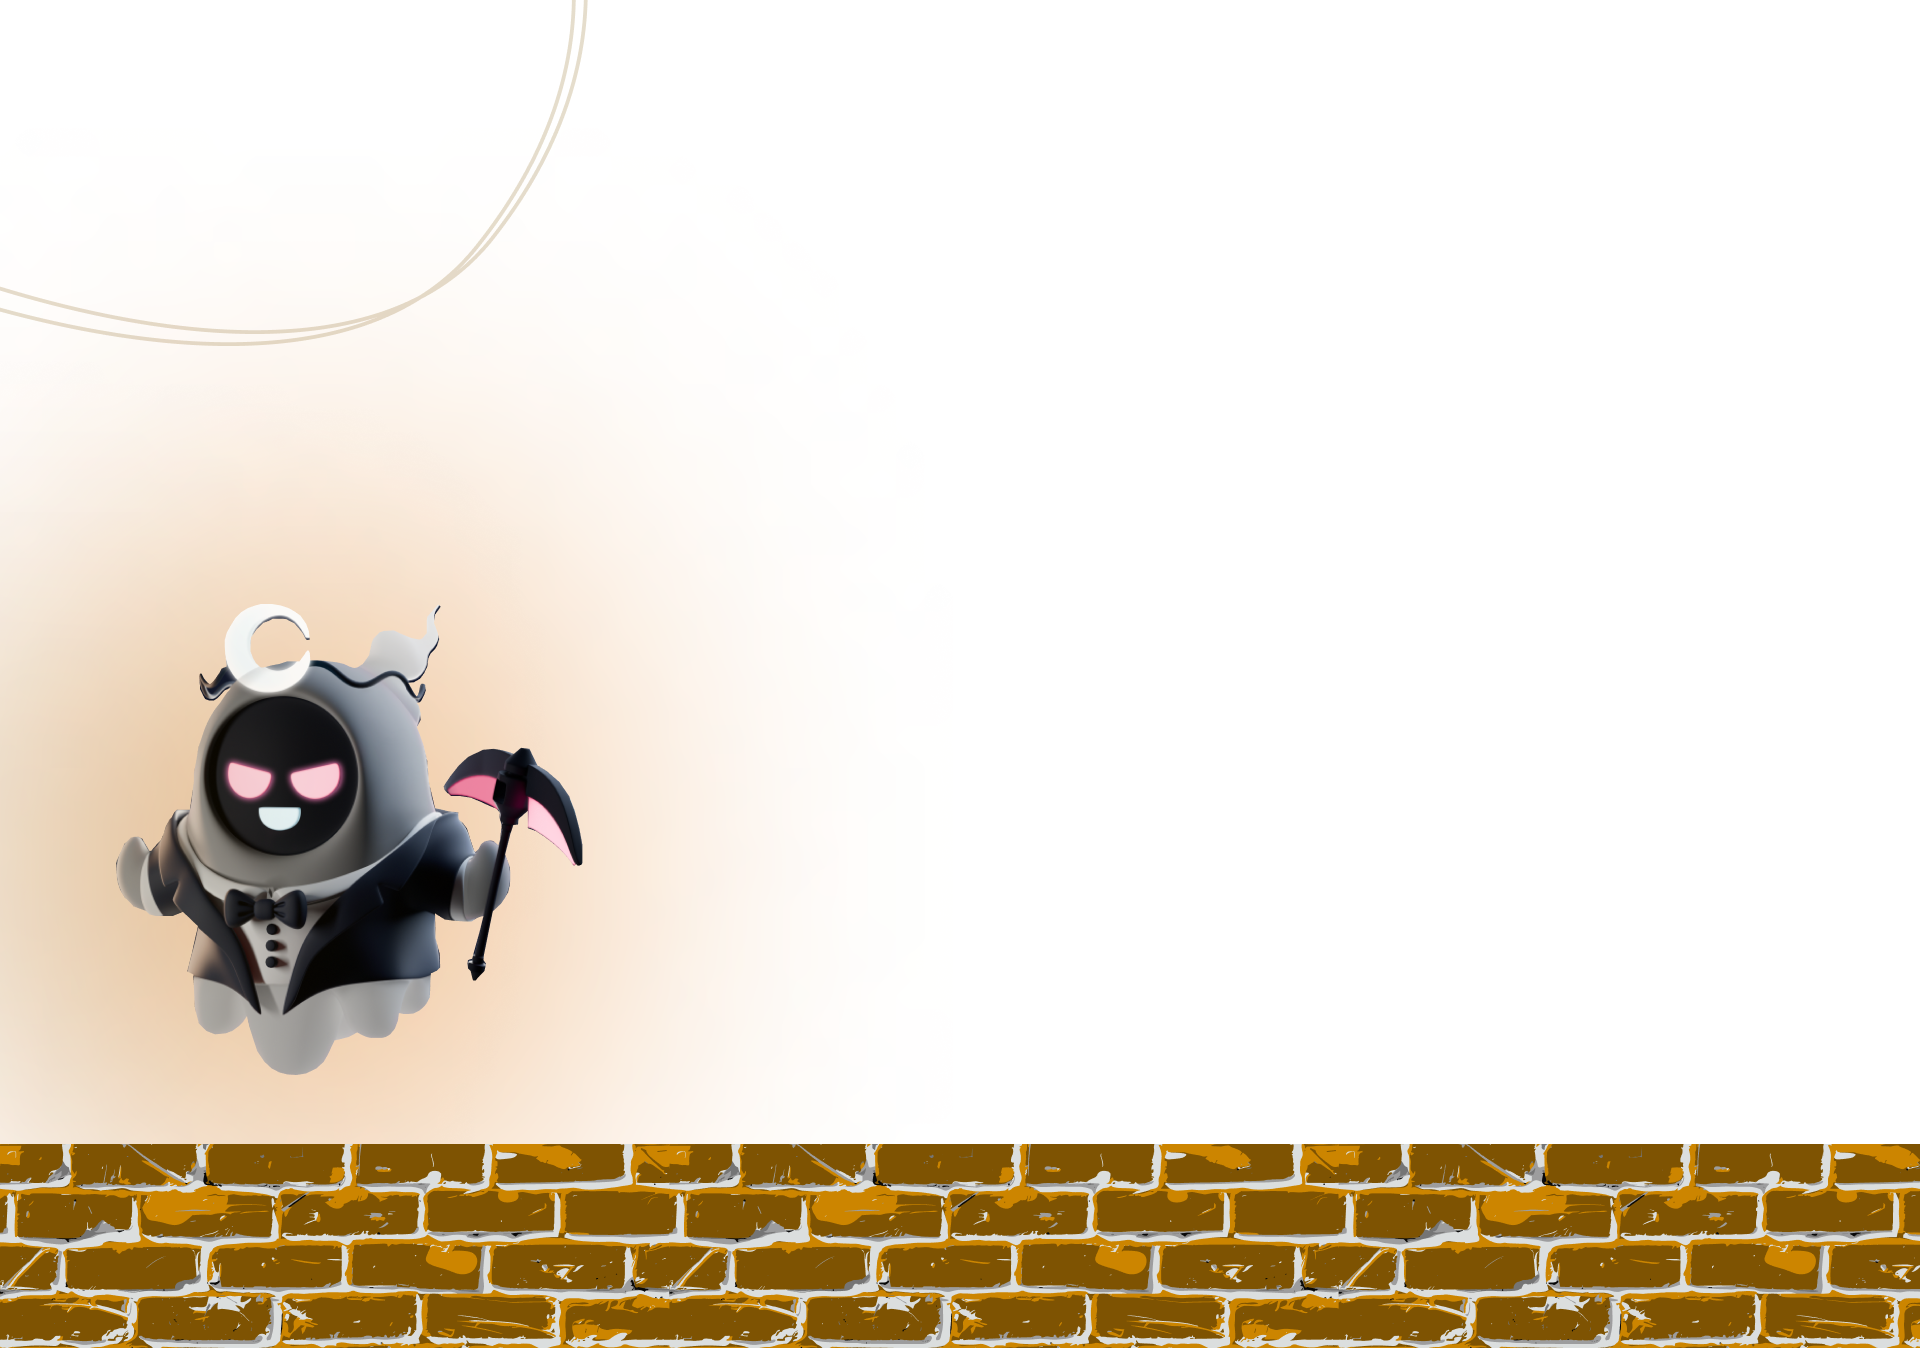
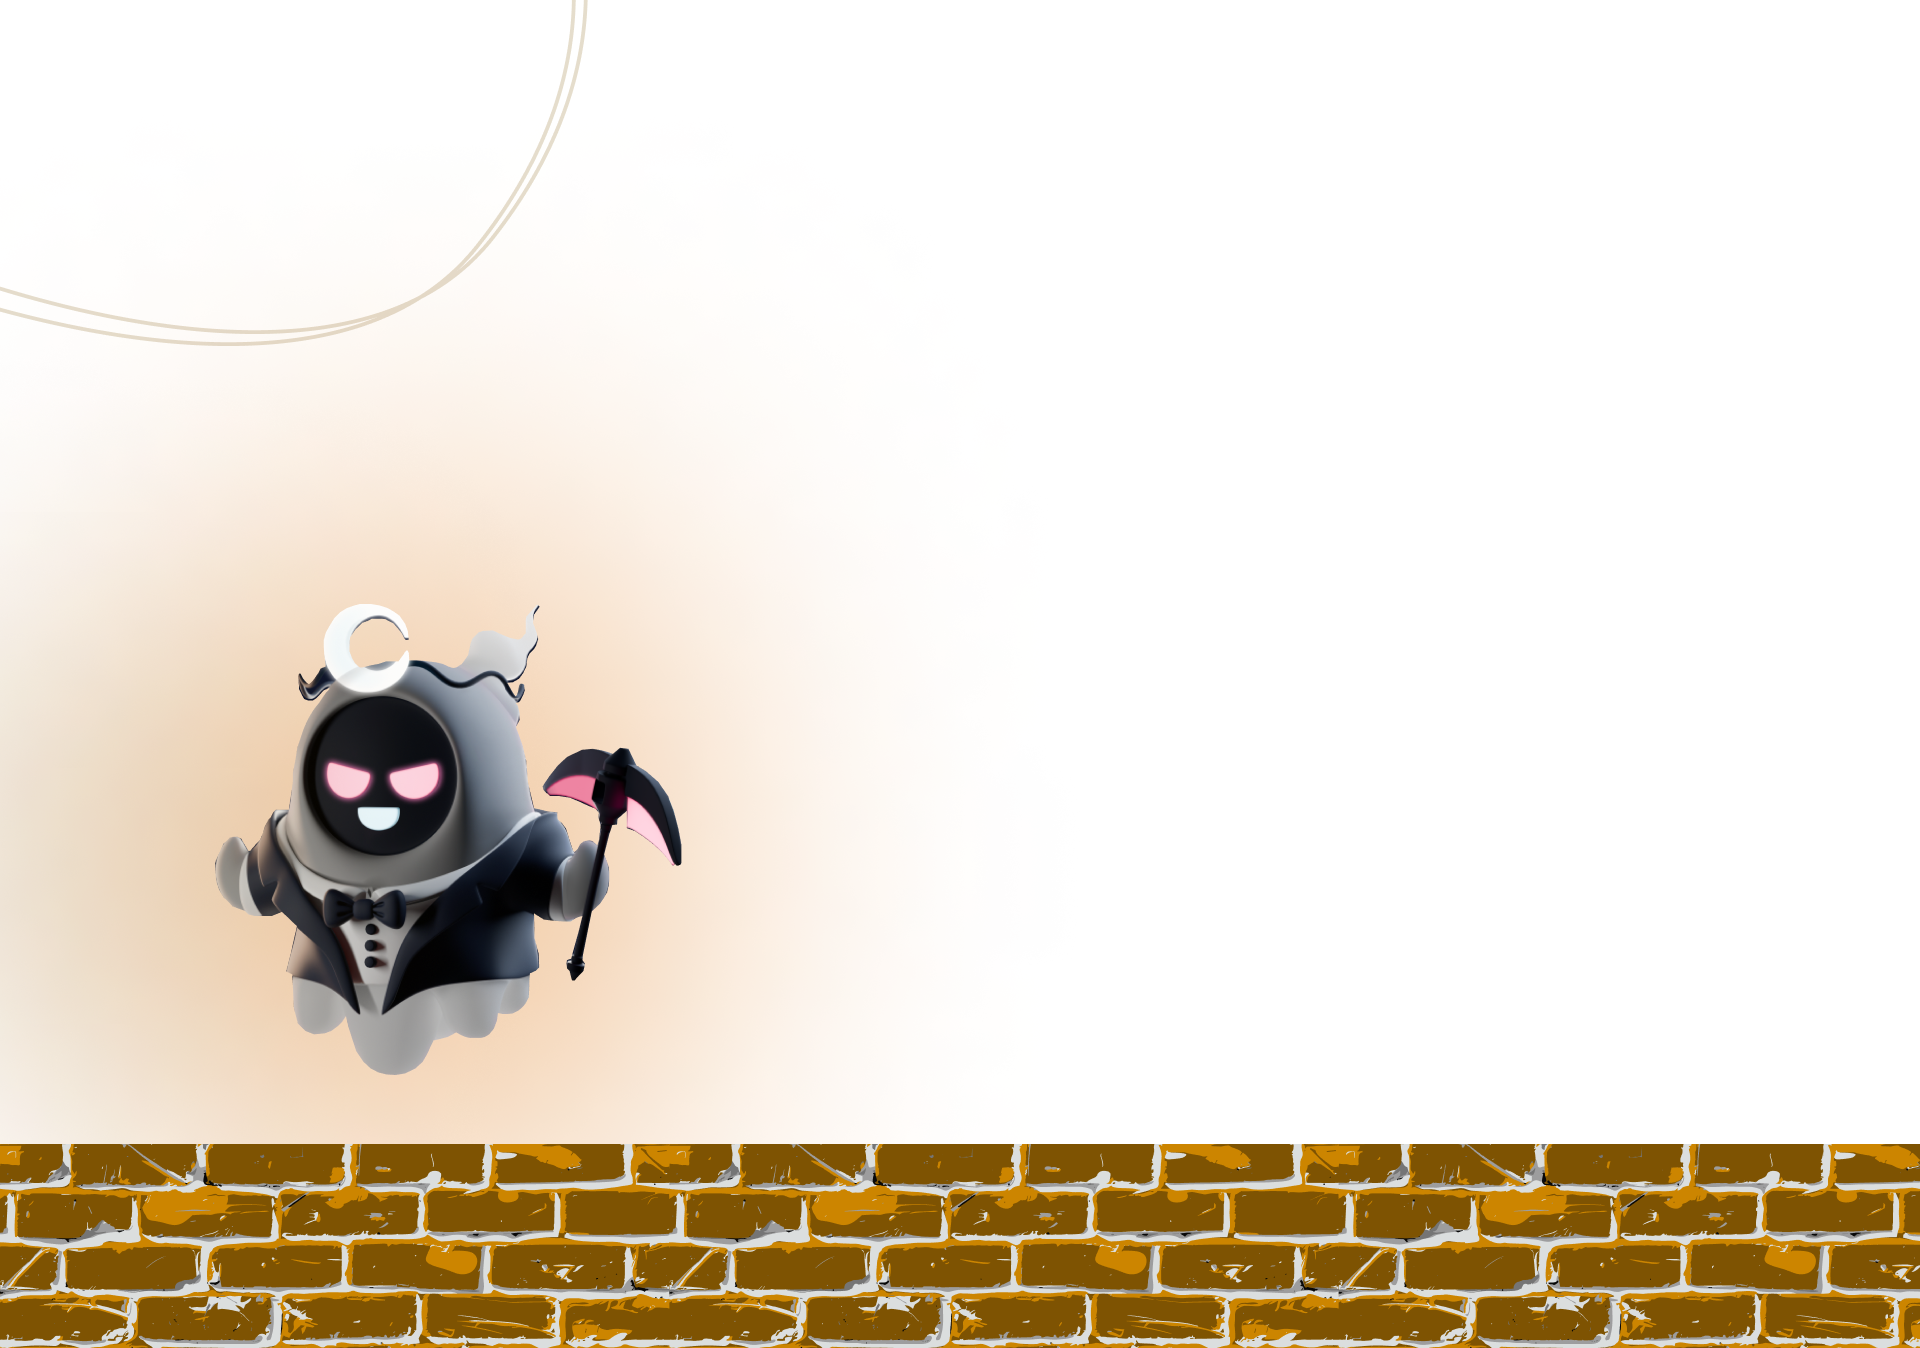
feat/client side changes

Changed region(s): [[0.0625, 0.4362, 0.375, 0.8101]]

diff --git a/components/sections/future_awaits.tsx b/components/sections/future_awaits.tsx
@@ -1,42 +1,51 @@
-import Button from "@/components/button/button";
-
+import Image from "next/image";
 const FutureAwaits = () => {
   return (
-    <div
-      id="section_7"
-      className="relative w-full min-h-screen flex flex-col items-center justify-center px-6 sm:px-10 md:px-16 lg:px-20 text-center"
-    >
-      {/* Content Box */}
-      <div className="max-w-3xl  p-6 sm:p-8 md:p-12">
-        <h1 className="text-3xl sm:text-4xl font-bold text-black mb-4">
-          The{" "}
-          <span className="text-black">
-            <span className="text-4xl sm:text-5xl">Future</span> Awaits
-          </span>
-        </h1>
-        <p className="text-black text-sm sm:text-lg md:text-xl leading-relaxed">
-          The Abstract Beings are no longer confined to their realm. They walk
-          among us now, drawn to those who dare to imagine the impossible.
-          Together, they forge a new path, one where the mortal and the Abstract
-          unite to heal the shattered portal and restore balance to creation.
-        </p>
-        <p className="text-black text-sm sm:text-lg md:text-xl leading-relaxed mt-4">
-          But the journey is far from over. The portal still flickers, and its
-          energy wanes. Whispers of an ancient prophecy speak of a convergence—a
-          moment when the Abstract Portal will reveal its true nature and its
-          ultimate purpose. Until then, the Abstract Beings and their human
-          partners must tread carefully, for the balance is delicate, and the
-          forces of chaos are always watching.
-        </p>
-        <p className="text-black text-sm sm:text-lg md:text-xl leading-relaxed mt-4">
-          Will you answer the portal’s call? Will you become a part of the
-          Abstract, shaping its story and discovering its secrets? The portal is
-          open, and the Abstract Beings await.
-        </p>
+    <div className="relative z-20 flex flex-row w-full">
+      {/* Content Section (60%) */}
+      <div className="w-3/5 flex items-start justify-center p-4 pt-20 pl-20 ">
+        <div className="text-left">
+          <h1 className="text-3xl sm:text-4xl font-bold text-black mb-4">
+            The{" "}
+            <span className="text-black">
+              <span className="text-4xl sm:text-5xl">Future</span> Awaits
+            </span>
+          </h1>
+          <p className="text-black text-sm sm:text-lg md:text-xl leading-relaxed">
+            The Abstract Beings are no longer confined to their realm. They walk
+            among us now, drawn to those who dare to imagine the impossible.
+            Together, they forge a new path, one where the mortal and the
+            Abstract unite to heal the shattered portal and restore balance to
+            creation.
+          </p>
+          <p className="text-black text-sm sm:text-lg md:text-xl leading-relaxed mt-4">
+            But the journey is far from over. The portal still flickers, and its
+            energy wanes. Whispers of an ancient prophecy speak of a
+            convergence—a moment when the Abstract Portal will reveal its true
+            nature and its ultimate purpose. Until then, the Abstract Beings and
+            their human partners must tread carefully, for the balance is
+            delicate, and the forces of chaos are always watching.
+          </p>
+          <p className="text-black text-sm sm:text-lg md:text-xl leading-relaxed mt-4">
+            Will you answer the portal’s call? Will you become a part of the
+            Abstract, shaping its story and discovering its secrets? The portal
+            is open, and the Abstract Beings await.
+          </p>
+        </div>
+      </div>
 
-        {/* Styled Button */}
-        <div className="mt-6">
-          <Button text="The journey begins now" width={320} />
+      {/* Image Section (40%) */}
+      <div className="w-2/5 flex items-center justify-center p-4">
+        {/* Placeholder Image (for layout) */}
+        <div className="w-full h-full flex items-center justify-center transform translate-y-[110px]">
+          <Image
+            src="/future_awaits.png" // Replace this with your image path
+            alt="Abstract Image"
+            width={600}
+            height={600}
+            className="w-full h-auto max-w-[500px] object-contain"
+            loading="lazy"
+          />
         </div>
       </div>
     </div>

diff --git a/components/sections/mortals.tsx b/components/sections/mortals.tsx
@@ -19,7 +19,7 @@ const CallToMortals = () => {
       </div>
 
       {/* Content Box */}
-      <div className="relative md:absolute md:right-[15%] lg:right-[1%] xl:right-[15%] md:top-[5%] lg:max-w-[70%] xl:max-w-screen-md w-full p-6 sm:p-8 md:p-10 !pt-0 max-h-[70%] overflow-hidden flex flex-col gap-6 text-left">
+      <div className="relative md:absolute md:right-[7%] lg:right-[7%] xl:right-[7%] md:top-[5%] lg:max-w-[70%] xl:max-w-screen-md w-full p-6 sm:p-8 md:p-10 !pt-0 max-h-[70%] overflow-hidden flex flex-col gap-6 text-left">
         <h1 className="text-3xl sm:text-4xl font-bold text-black">
           Discover the Abstract Beings – One Stage at a Time
         </h1>

diff --git a/components/sections/mystical.tsx b/components/sections/mystical.tsx
@@ -42,12 +42,12 @@ const Mystical = () => {
           known. From this portal emerge the Abstract Beings, enigmatic entities
           forged from fragments of creativity, fear, ambition, and wonder.
         </p>
-        {/* Button Container */}
+        {/* Button Container
         <div className="flex justify-center">
           <div className="max-w-xs w-full">
             <Button text="Read More" iconSrc="/right_arrow.png" />
           </div>
-        </div>
+        </div> */}
       </div>
     </div>
   );

diff --git a/components/sections/holders.tsx b/components/sections/holders.tsx
@@ -43,7 +43,7 @@ unlock the full potential of their Abstract Beings.`,
     //     },
 
     {
-      title: "Supporting Holder Brands and Businesses",
+      title: "Holder Brands & Businesses",
       subtitle: "Your vision, our support",
       description: `${PROJECT_NAME} is more than an NFT—it’s a partner in growth. Whether you're an 
 entrepreneur, artist, founder or visionary, we’re here to help you leverage your NFT to

diff --git a/components/sections/abstract_section.tsx b/components/sections/abstract_section.tsx
@@ -88,7 +88,7 @@ const AbstractSection = () => {
           alt="Abstract Chain Character"
           width={600}
           height={600}
-          className="w-3/4 md:w-full lg:max-w-[500px]"
+          className="w-3/4 md:w-full lg:max-w-[500px] transform translate-x-[-80px] translate-y-[70px]"
           loading="eager"
         />
       </motion.div>
